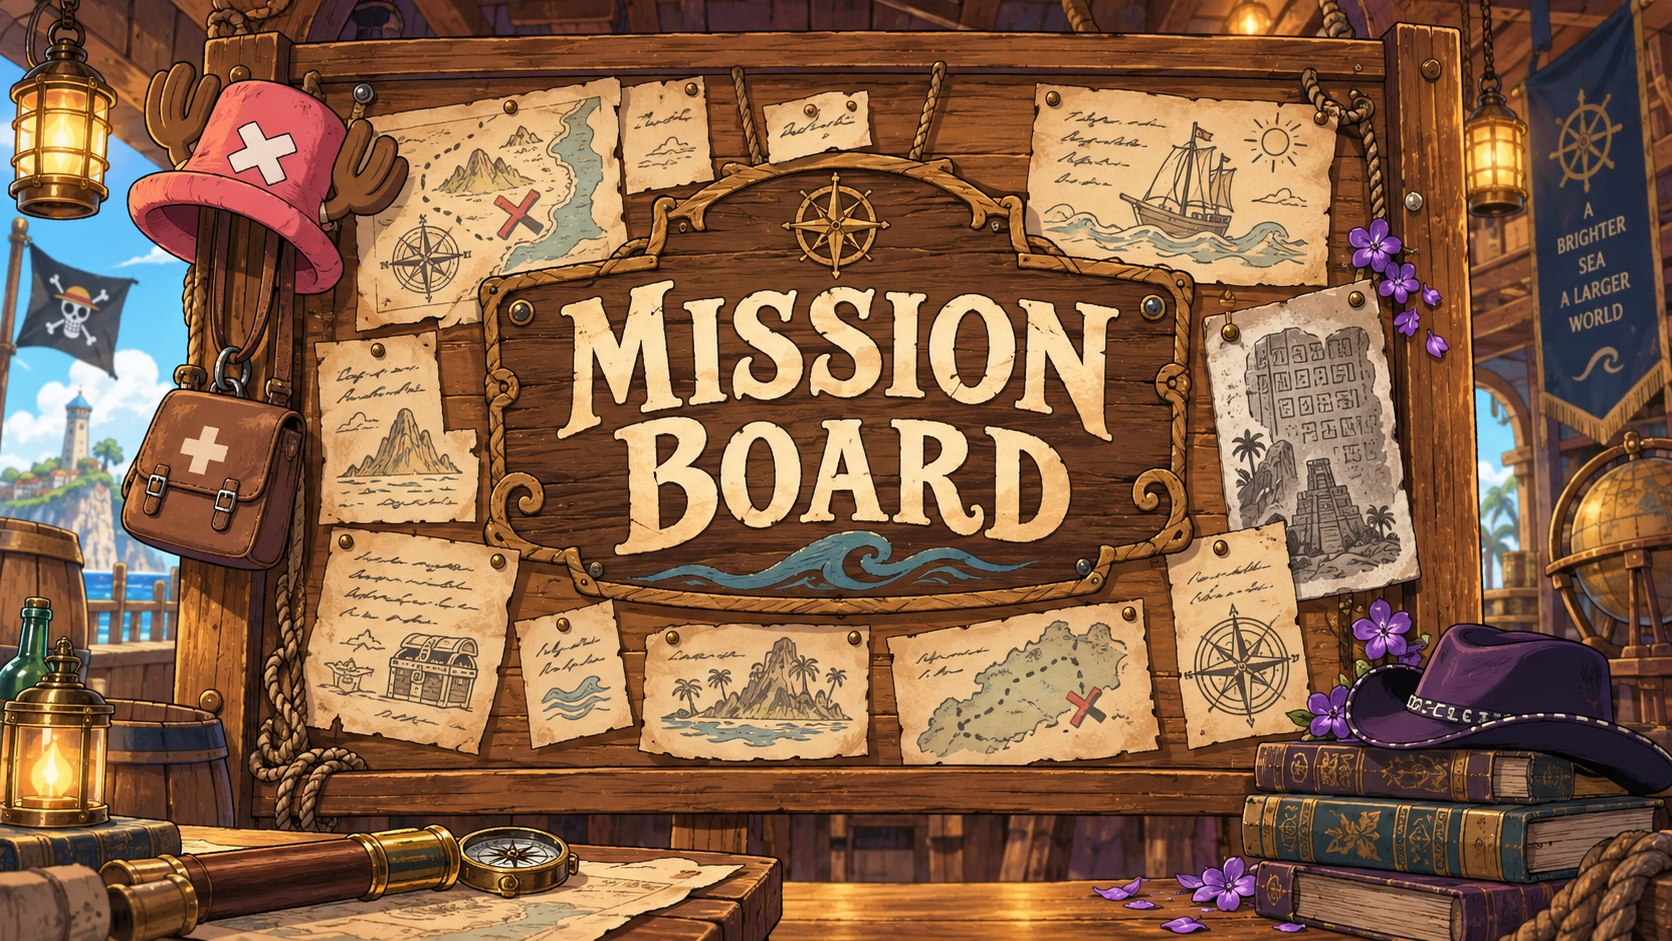
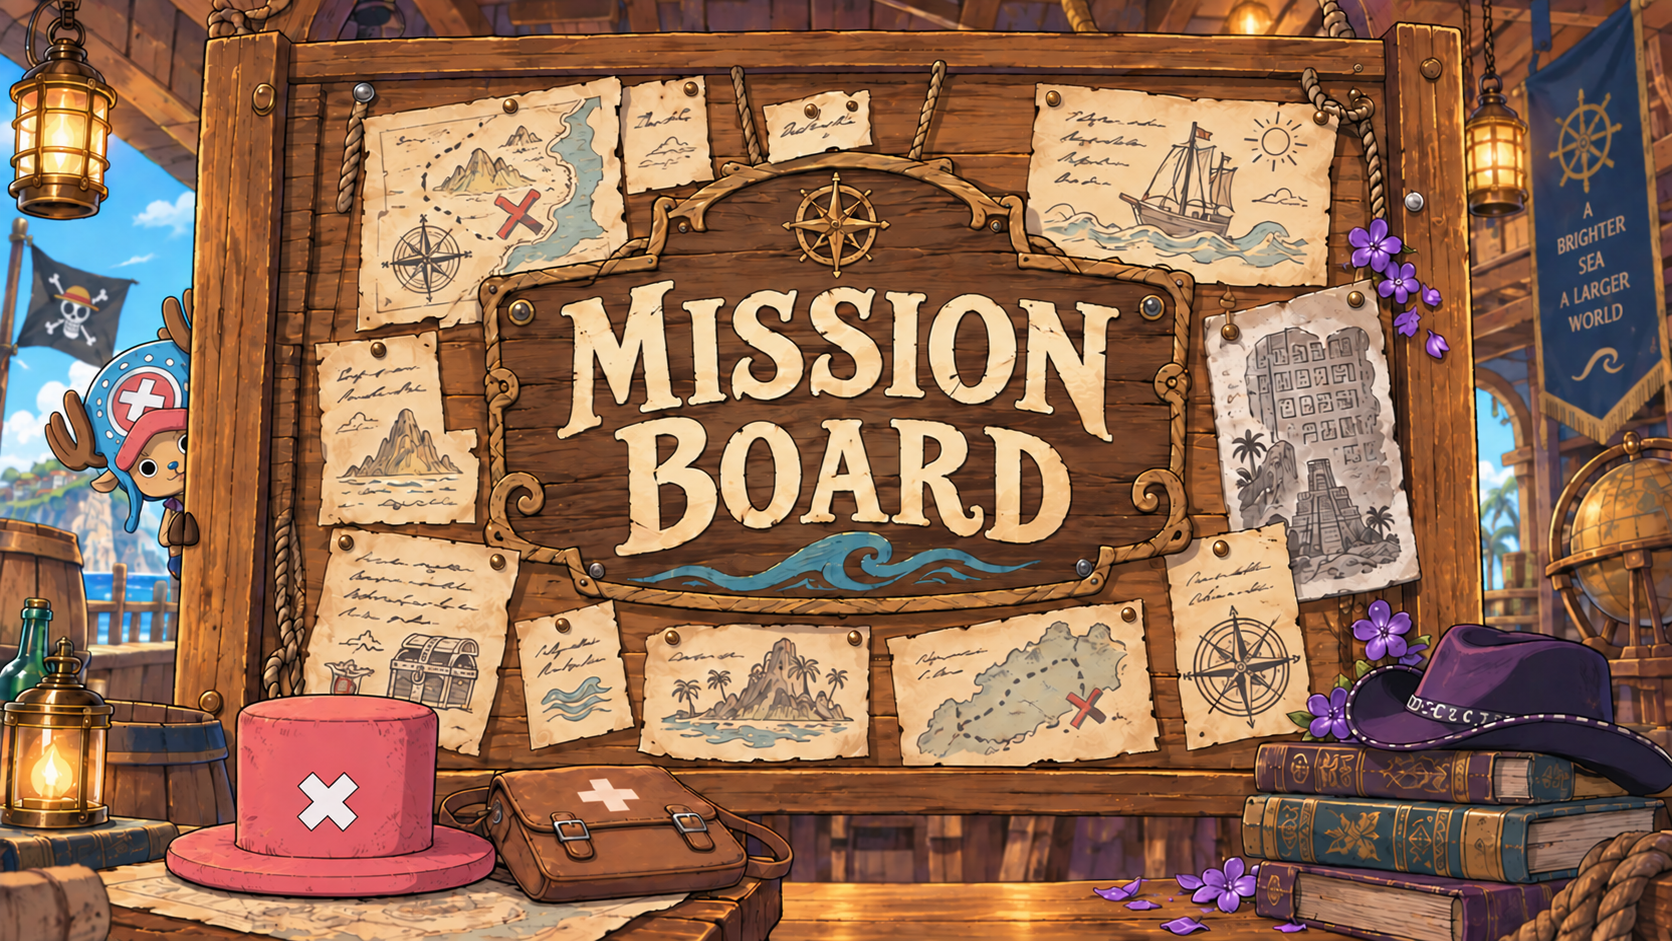
docs: refresh mission board artwork
Replace the banner with the approved Chopper illustration and describe
his presence in the README alt text.

diff --git a/README.md b/README.md
@@ -2,7 +2,7 @@
 
 [English](README.md) | [Português (Brasil)](README.pt-BR.md) | [Español (España)](README.es-ES.md)
 
-![A pirate guild mission board with Chopper's hat and Robin's archaeology books.](docs/assets/mission-board.png)
+![Chopper peeks around a pirate guild mission board, with his pink hat and medical bag on a table and Robin's hat and archaeology books nearby.](docs/assets/mission-board.png)
 
 A local-first career assistant built with skills and plain files. Track your
 experience, find opportunities, and prepare tailored applications.
